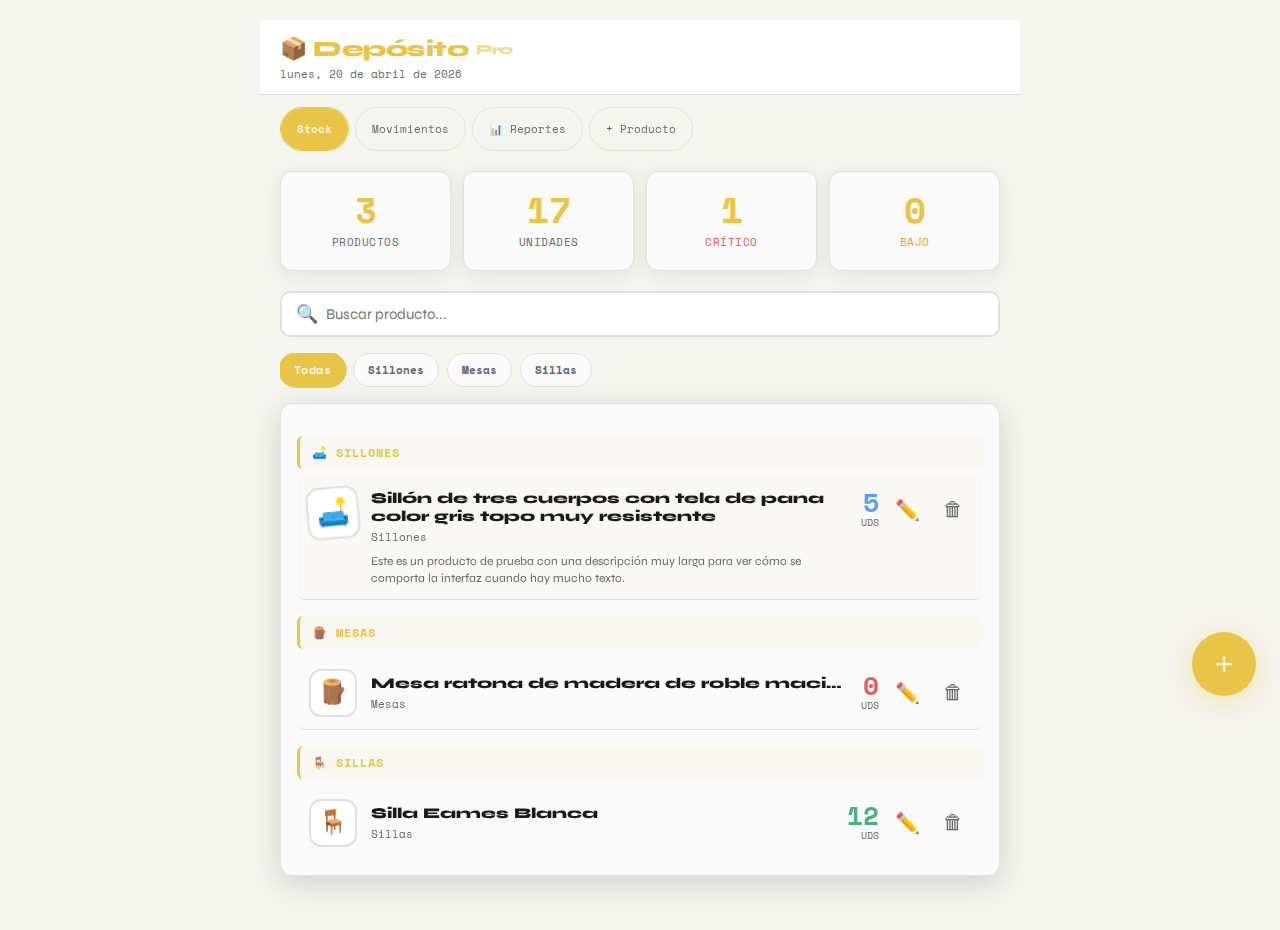
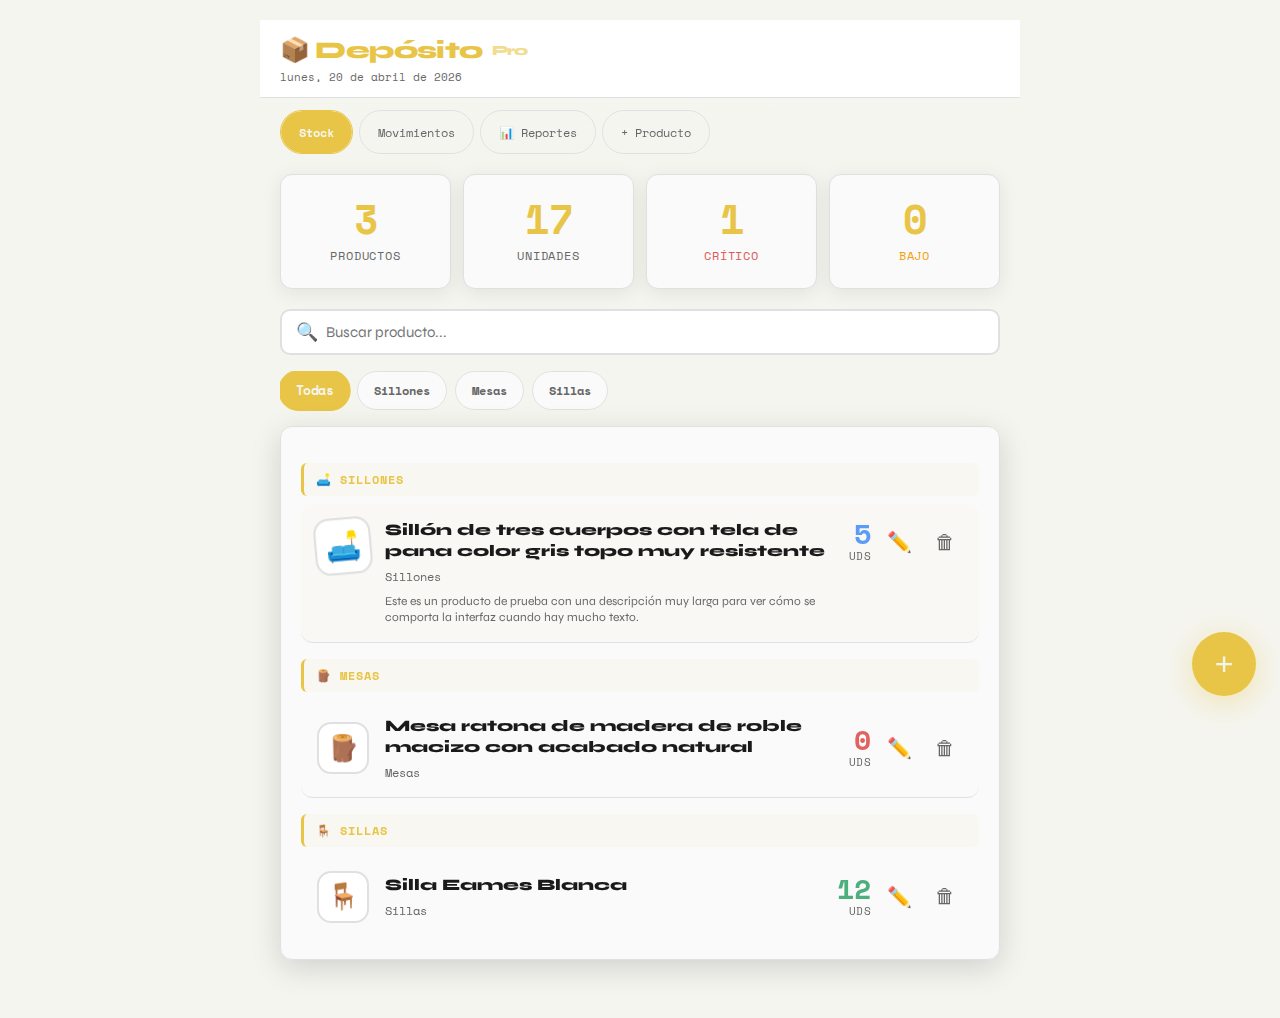
Redesign UI for mobile professional look and add new categories
- Improved typography and layout by increasing font sizes and spacing.
- Fixed 'squashed' product names by allowing text wrapping and adjusting line heights.
- Added 'Individuales' and 'Mesas Ratonas' categories to the application.
- Refined aspect ratios of cards, icons, and buttons for a more modern aesthetic.

diff --git a/style.css b/style.css
@@ -48,7 +48,7 @@ header {
   position: sticky; top: 0; z-index: 100;
   backdrop-filter: blur(10px);
 }
-header h1 { font-size: 22px; font-weight: 800; letter-spacing: -0.5px; color: var(--accent); display: flex; align-items: center; gap: 8px; }
+header h1 { font-size: 24px; font-weight: 800; letter-spacing: -0.8px; color: var(--accent); display: flex; align-items: center; gap: 10px; }
 header p { font-size: 11px; color: var(--muted); font-family: 'Space Mono', monospace; margin-top: 4px; }
 
 /* Navegación */
@@ -61,7 +61,7 @@ nav {
 nav::-webkit-scrollbar { display: none; }
 nav button {
   background: none; border: 1px solid var(--border); color: var(--muted);
-  font-family: 'Space Mono', monospace; font-size: 11px; padding: 10px 16px;
+  font-family: 'Space Mono', monospace; font-size: 12px; padding: 10px 18px;
   border-radius: 50px; cursor: pointer; white-space: nowrap; transition: all 0.2s;
   min-height: 44px; position: relative; overflow: hidden;
 }
@@ -76,14 +76,15 @@ nav button.active::before { transform: scaleX(1); }
 main { padding: 20px; animation: fadeIn 0.4s ease; }
 
 .section-title {
-  font-size: 24px; font-weight: 800; margin-bottom: 16px;
-  display: flex; align-items: center; gap: 10px;
+  font-size: 26px; font-weight: 800; margin-bottom: 20px;
+  display: flex; align-items: center; gap: 12px;
+  letter-spacing: -0.5px;
 }
 .section-title .dot { width: 10px; height: 10px; border-radius: 50%; background: var(--accent); animation: pulse 2s infinite; }
 
 .card {
   background: var(--card); border: 1px solid var(--border);
-  border-radius: var(--radius); padding: 16px; margin-bottom: 12px;
+  border-radius: var(--radius); padding: 20px; margin-bottom: 16px;
   box-shadow: var(--shadow); transition: transform 0.2s, box-shadow 0.2s;
 }
 .card:hover { transform: translateY(-2px); box-shadow: 0 8px 30px rgba(0,0,0,0.15); }
@@ -91,8 +92,8 @@ main { padding: 20px; animation: fadeIn 0.4s ease; }
 /* Formularios */
 .form-group { margin-bottom: 16px; }
 label {
-  display: block; font-size: 11px; font-family: 'Space Mono', monospace;
-  color: var(--muted); text-transform: uppercase; letter-spacing: 0.5px; margin-bottom: 6px;
+  display: block; font-size: 12px; font-family: 'Space Mono', monospace;
+  color: var(--muted); text-transform: uppercase; letter-spacing: 0.8px; margin-bottom: 8px;
   font-weight: 700;
 }
 input, select, textarea {
@@ -130,16 +131,16 @@ input:disabled { opacity: 0.6; cursor: not-allowed; }
 
 /* Items de Stock */
 .stock-item {
-  display: flex; align-items: center; gap: 14px;
-  padding: 16px 0; border-bottom: 1px solid var(--border);
+  display: flex; align-items: center; gap: 16px;
+  border-bottom: 1px solid var(--border);
   animation: slideIn 0.3s ease both;
-  transition: background 0.2s; border-radius: 8px; padding: 12px;
+  transition: background 0.2s; border-radius: 12px; padding: 16px;
 }
 .stock-item:hover { background: rgba(232,197,71,0.03); }
 .stock-item:last-child { border-bottom: none; }
 .stock-icon {
-  width: 48px; height: 48px; background: var(--surface); border-radius: 12px;
-  display: flex; align-items: center; justify-content: center; font-size: 24px; flex-shrink: 0;
+  width: 52px; height: 52px; background: var(--surface); border-radius: 14px;
+  display: flex; align-items: center; justify-content: center; font-size: 26px; flex-shrink: 0;
   border: 2px solid var(--border); transition: transform 0.2s;
 }
 .stock-item:hover .stock-icon { transform: scale(1.1) rotate(-5deg); }
@@ -153,8 +154,8 @@ input:disabled { opacity: 0.6; cursor: not-allowed; }
 }
 
 .stock-info { flex: 1; min-width: 0; }
-.stock-name { font-size: 15px; font-weight: 700; white-space: nowrap; overflow: hidden; text-overflow: ellipsis; transition: all 0.3s; }
-.stock-cat { font-size: 11px; font-family: 'Space Mono', monospace; color: var(--muted); margin-top: 4px; }
+.stock-name { font-size: 16px; font-weight: 700; line-height: 1.3; transition: all 0.3s; margin-bottom: 2px; }
+.stock-cat { font-size: 12px; font-family: 'Space Mono', monospace; color: var(--muted); margin-top: 6px; }
 .stock-notes { font-size: 12px; color: var(--muted); margin-top: 8px; display: none; line-height: 1.4; }
 
 .stock-item.expanded { align-items: flex-start; }
@@ -162,8 +163,8 @@ input:disabled { opacity: 0.6; cursor: not-allowed; }
 .stock-item.expanded .stock-notes { display: block; }
 
 .stock-qty { text-align: right; flex-shrink: 0; display: flex; flex-direction: column; align-items: flex-end; }
-.qty-num { font-size: 26px; font-weight: 800; font-family: 'Space Mono', monospace; line-height: 1; transition: color 0.3s; }
-.qty-label { font-size: 10px; color: var(--muted); font-family: 'Space Mono', monospace; text-transform: uppercase; }
+.qty-num { font-size: 28px; font-weight: 800; font-family: 'Space Mono', monospace; line-height: 1; transition: color 0.3s; }
+.qty-label { font-size: 11px; color: var(--muted); font-family: 'Space Mono', monospace; text-transform: uppercase; letter-spacing: 0.5px; }
 .qty-zero { color: var(--red); animation: pulse 2s infinite; }
 .qty-low { color: #f59e0b; }
 .qty-medium { color: var(--blue); }
@@ -173,10 +174,10 @@ input:disabled { opacity: 0.6; cursor: not-allowed; }
 .move-item { padding: 16px 0; border-bottom: 1px solid var(--border); animation: slideIn 0.3s ease both; }
 .move-item:last-child { border-bottom: none; }
 .move-header { display: flex; justify-content: space-between; align-items: flex-start; margin-bottom: 8px; }
-.move-product { font-size: 15px; font-weight: 700; flex: 1; padding-right: 8px; }
+.move-product { font-size: 16px; font-weight: 700; flex: 1; padding-right: 8px; line-height: 1.3; }
 .badge {
-  font-size: 10px; font-family: 'Space Mono', monospace; font-weight: 700;
-  padding: 4px 10px; border-radius: 50px; text-transform: uppercase; letter-spacing: 0.5px; flex-shrink: 0;
+  font-size: 11px; font-family: 'Space Mono', monospace; font-weight: 700;
+  padding: 6px 12px; border-radius: 50px; text-transform: uppercase; letter-spacing: 0.5px; flex-shrink: 0;
 }
 .badge-entrada { background: rgba(76,175,125,0.15); color: var(--green); border: 1px solid rgba(76,175,125,0.3); }
 .badge-salida { background: rgba(224,85,85,0.15); color: var(--red); border: 1px solid rgba(224,85,85,0.3); }
@@ -189,12 +190,12 @@ input:disabled { opacity: 0.6; cursor: not-allowed; }
 .stats-row { display: grid; grid-template-columns: 1fr 1fr; gap: 12px; margin-bottom: 20px; }
 .stat-card {
   background: var(--card); border: 1px solid var(--border);
-  border-radius: var(--radius); padding: 20px; text-align: center;
+  border-radius: var(--radius); padding: 24px 16px; text-align: center;
   box-shadow: var(--shadow); transition: transform 0.2s;
 }
 .stat-card:hover { transform: translateY(-4px); }
-.stat-num { font-size: 36px; font-weight: 800; font-family: 'Space Mono', monospace; color: var(--accent); line-height: 1; }
-.stat-label { font-size: 11px; color: var(--muted); font-family: 'Space Mono', monospace; margin-top: 6px; text-transform: uppercase; letter-spacing: 0.5px; }
+.stat-num { font-size: 40px; font-weight: 800; font-family: 'Space Mono', monospace; color: var(--accent); line-height: 1; }
+.stat-label { font-size: 12px; color: var(--muted); font-family: 'Space Mono', monospace; margin-top: 8px; text-transform: uppercase; letter-spacing: 0.8px; }
 
 /* Toast */
 .toast {
@@ -264,7 +265,7 @@ input:disabled { opacity: 0.6; cursor: not-allowed; }
 .filter-row::-webkit-scrollbar { display: none; }
 .filter-chip {
   background: var(--card); border: 1px solid var(--border); color: var(--muted);
-  font-family: 'Space Mono', monospace; font-size: 11px; padding: 8px 14px;
+  font-family: 'Space Mono', monospace; font-size: 12px; padding: 10px 16px;
   border-radius: 50px; cursor: pointer; white-space: nowrap; transition: all 0.2s;
   font-weight: 700;
 }

diff --git a/index.html b/index.html
@@ -157,6 +157,7 @@
       <select id="np-cat">
         <option value="Sillones">🛋 Sillones</option>
         <option value="Mesas">🪵 Mesas</option>
+        <option value="Mesas Ratonas">🛋 Mesas Ratonas</option>
         <option value="Sillas">🪑 Sillas</option>
         <option value="Espejos">🪞 Espejos</option>
         <option value="Cuadros">🖼 Cuadros</option>
@@ -168,6 +169,7 @@
         <option value="Navidad">🎄 Navidad</option>
         <option value="Pascua">🐰 Pascua</option>
         <option value="Macetas">🏺 Macetas</option>
+        <option value="Individuales">🍽 Individuales</option>
         <option value="Decoración">🏺 Decoración</option>
         <option value="Otro">📦 Otro</option>
       </select>

diff --git a/script.js b/script.js
@@ -13,7 +13,7 @@ const ICONS = {
   'Sillones':'🛋','Mesas':'🪵','Sillas':'🪑','Espejos':'🪞','Cuadros':'🖼',
   'Recibidores':'🚪','Muebles Artely':'🏢','Plantas':'🪴','Cristalería':'🍷',
   'Flores':'💐','Navidad':'🎄','Pascua':'🐰','Macetas':'🏺','Decoración':'🏺',
-  'Otro':'📦'
+  'Individuales':'🍽','Mesas Ratonas':'🛋','Otro':'📦'
 };
 
 // ==========================================
